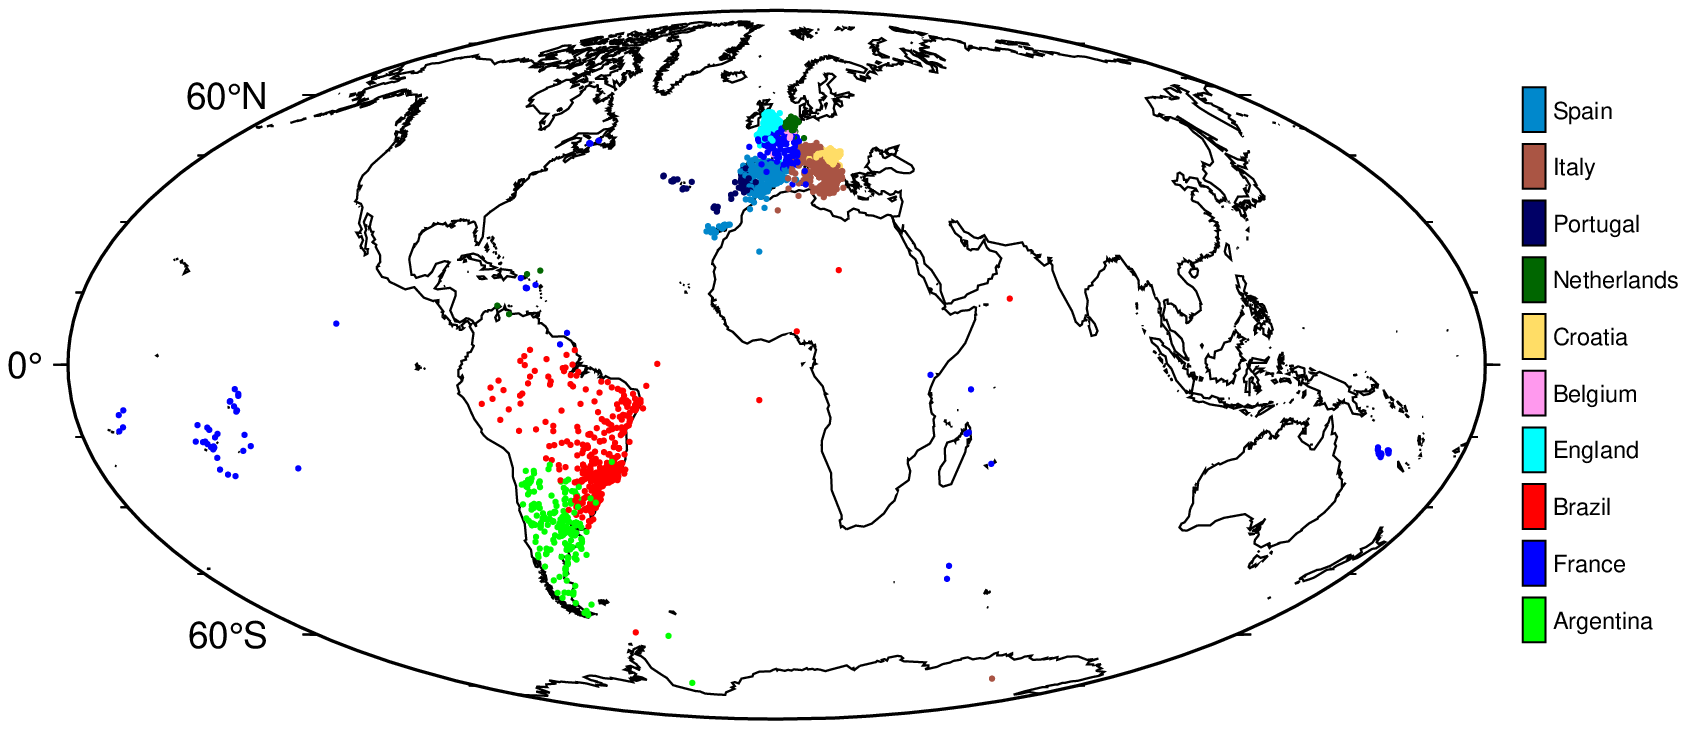
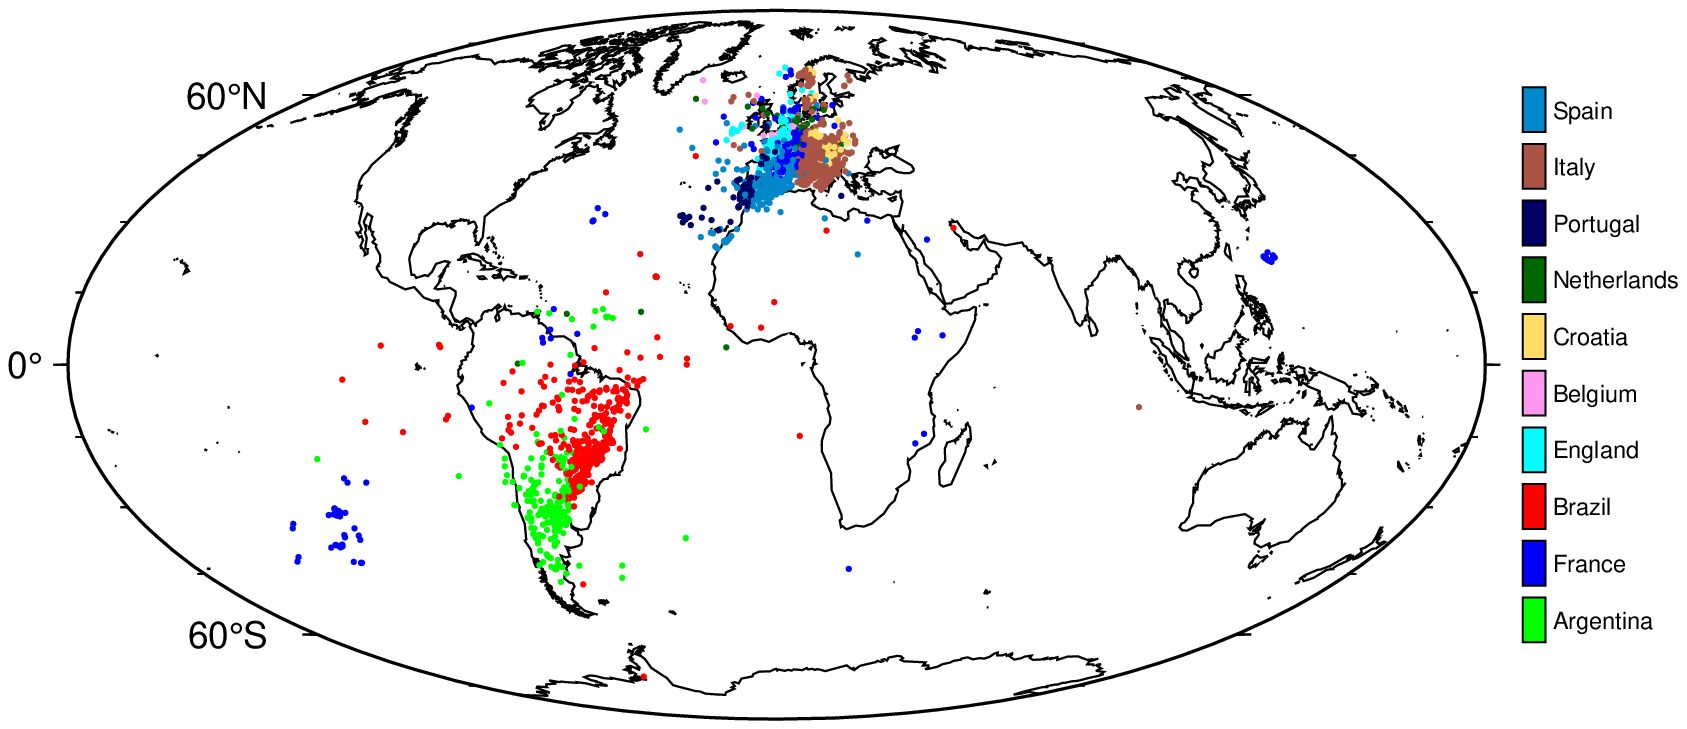
just a random projection of the training data

diff --git a/technical_descriptions.tex b/technical_descriptions.tex
@@ -173,16 +173,14 @@
 \date{}
 
 \begin{document}
-\ifdefined\Shaded\renewenvironment{Shaded}{\begin{tcolorbox}[interior hidden, breakable, sharp corners, borderline west={3pt}{0pt}{shadecolor}, boxrule=0pt, enhanced, frame hidden]}{\end{tcolorbox}}\fi
+\ifdefined\Shaded\renewenvironment{Shaded}{\begin{tcolorbox}[frame hidden, interior hidden, sharp corners, boxrule=0pt, enhanced, borderline west={3pt}{0pt}{shadecolor}, breakable]}{\end{tcolorbox}}\fi
 
-\hypertarget{example-projecting-a-world-model-onto-a-latent-space}{%
-\subsection{Example: Projecting a World Model onto a latent
-space}\label{example-projecting-a-world-model-onto-a-latent-space}}
+\hypertarget{example-random-projections-of-world-models}{%
+\subsection{Example: Random Projections of World
+Models}\label{example-random-projections-of-world-models}}
 
 \begin{itemize}
 \tightlist
-\item
-  Take a variational autoencoder (VAE) that was pre-trained on MNIST.
 \item
   Take the
   \href{https://github.com/wesg52/world-models/blob/main/data/entity_datasets/world_place.csv}{world\_place.csv}
@@ -205,8 +203,8 @@ space}\label{example-projecting-a-world-model-onto-a-latent-space}}
 \item
   Initialize a small neural network, let's call it a \emph{projector},
   that maps from \(X\) to a single small hidden layer with sigmoid
-  activation and then form there to the latent space
-  \(\mathcal{Z} \subset \mathbb{R}\) of the pre-trained VAE.
+  activation and then from there to a lower-dimensional output space
+  \(\mathcal{Z} \subset \mathbb{R}\).
 \item
   Without performing any training on the \emph{projector}, simply
   compute a forward pass of the continuously encoded data \(X\) through
@@ -227,23 +225,16 @@ space}\label{example-projecting-a-world-model-onto-a-latent-space}}
 \end{itemize}
 
 \begin{quote}
-I think what's going on here is that we essentially randomly project a
-small set of features into a higher-dimensional space (\(d < k\)). The
-linear probe is then having an easy time separating features in the
-high-dimensional space, even though the projection is completely random.
-Even though one might be momentarily amazed by this, there is really
-nothing surprising at all going on here. We can still draw a very
-interesting parallel to Gurnee and Tegmark (2023): we know that
-geographical coordinates are in the training corpus of Llama-2; that
-information gets passed through a massive latent space (the model); they
-run probes on a subsapce of the model (still massive) and manage to
-linearly separate their variable of interest (coordinates). I don't know
-how accurate that parallel really is but it just seems striking to me
-that ultimately what they is regressing a 2-dimensional output variable
-on this massive feature matrix (``ranging from 4,096 to 8,192 features''
-for roughly 40,000 total samples, can't figure out how big the
-train/test sets are, respectively.). I'm not good enough at theory but
-maybe there's really just no surprise at all here?
+We can draw a very interesting parallel to Gurnee and Tegmark (2023): we
+know that geographical coordinates are in the training corpus of
+Llama-2; that information gets passed through a massive latent space
+(the model); they run probes on a subsapce of the model (still massive)
+and manage to linearly separate their variable of interest
+(coordinates). I don't know how accurate that parallel really is but it
+just seems striking to me that ultimately what they is regressing a
+2-dimensional output variable on this massive feature matrix (``ranging
+from 4,096 to 8,192 features'' for roughly 40,000 total samples, can't
+figure out how big the train/test sets are, respectively.).
 \end{quote}
 
 Relatedly, it is worth pointing out that
